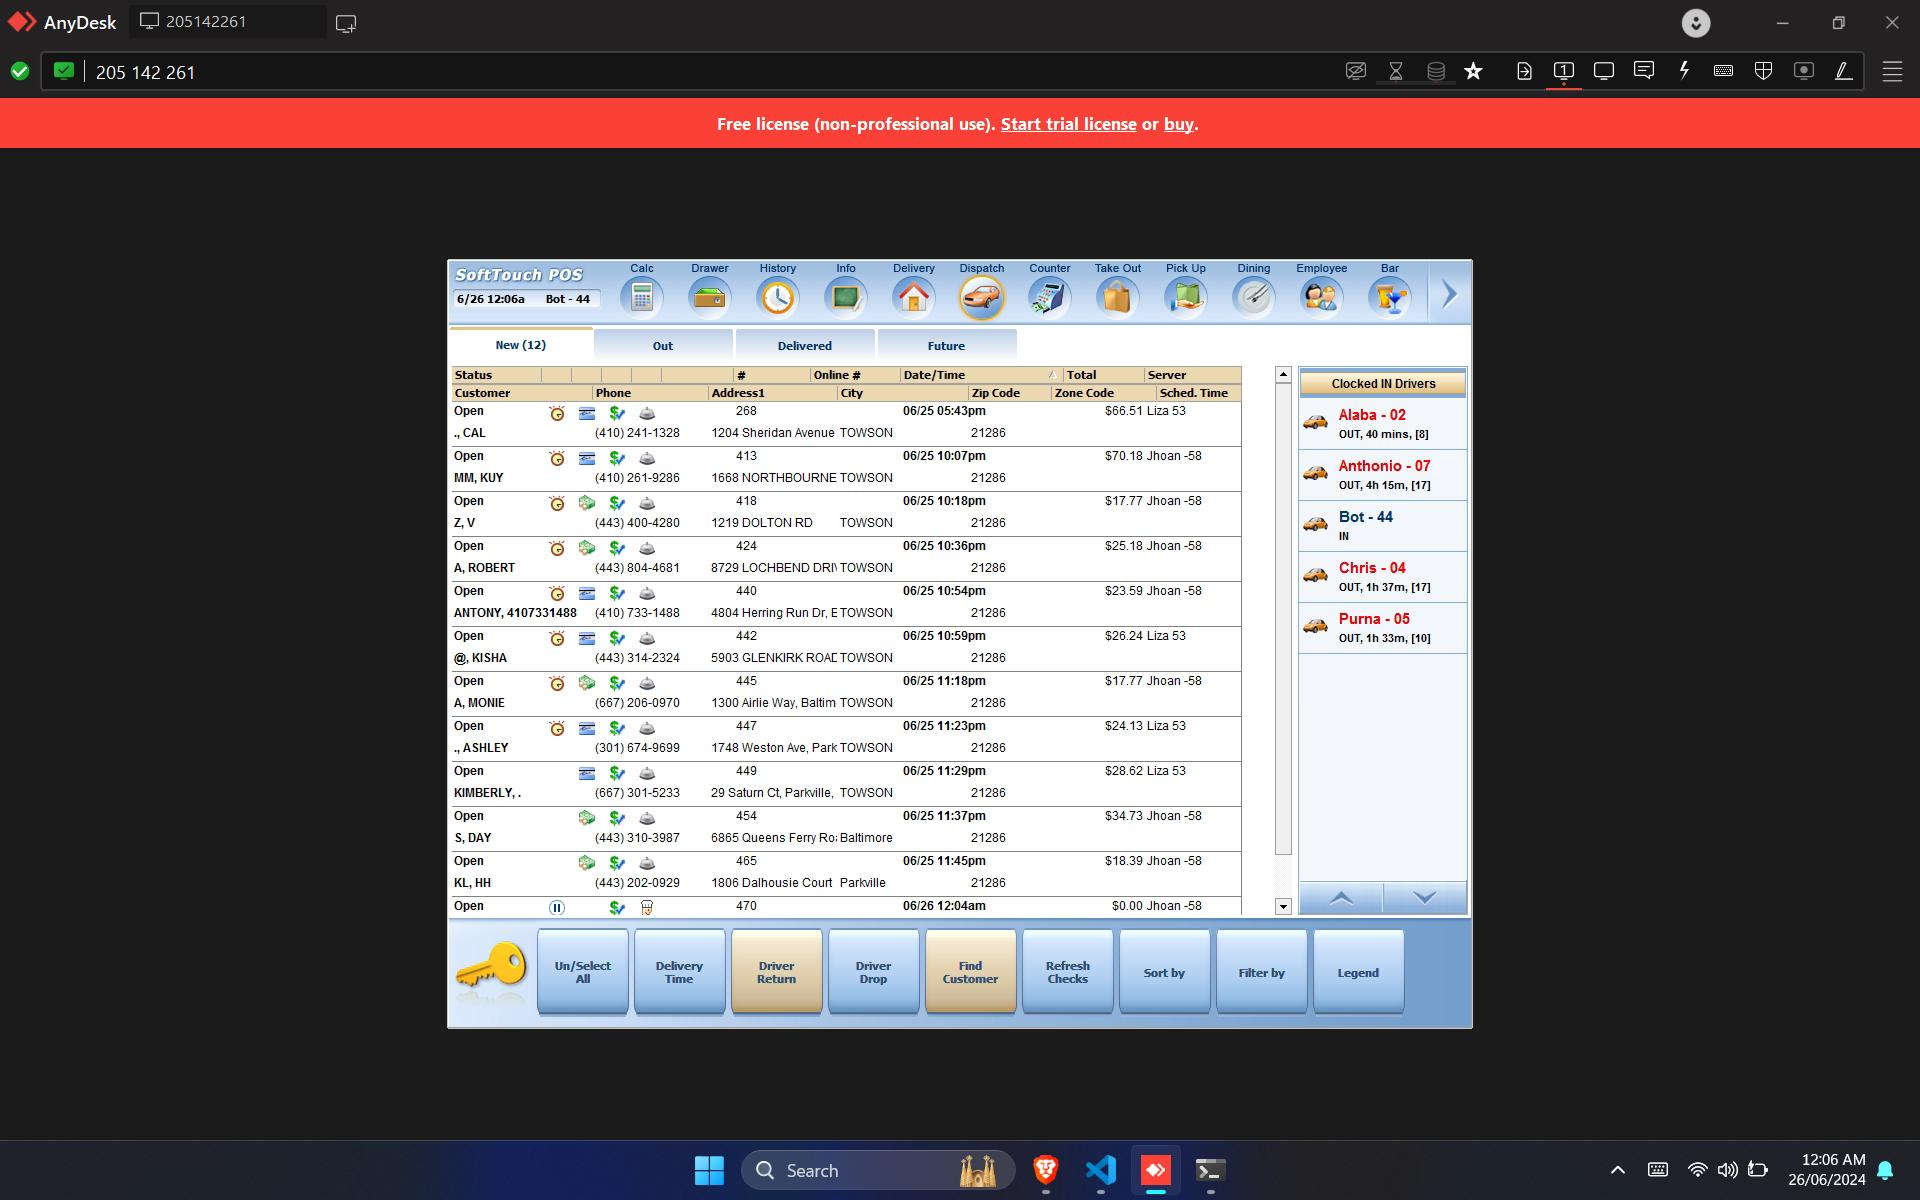
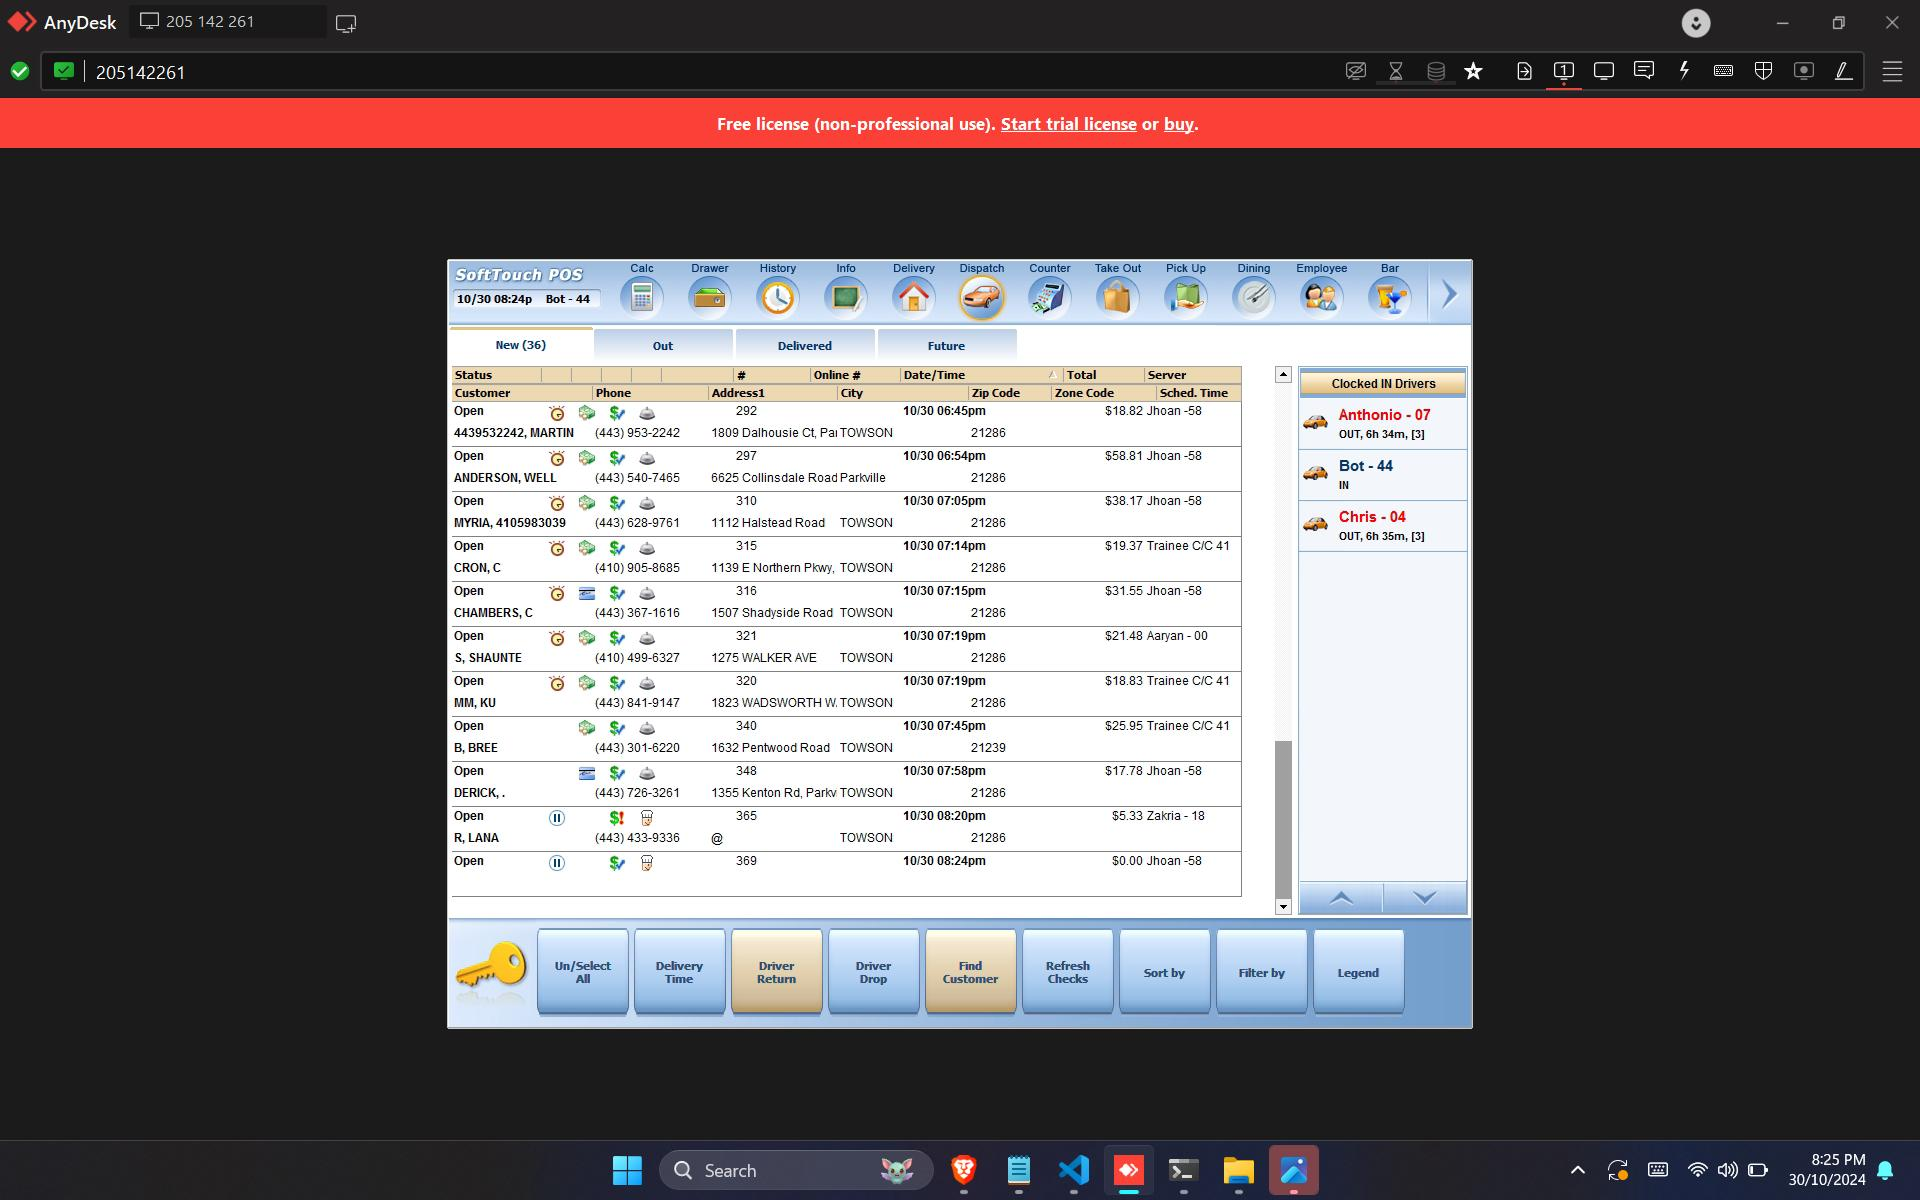
Working with sound

diff --git a/main.py b/main.py
@@ -3,40 +3,78 @@ from time import sleep
 import pyautogui
 from pyautogui import click
 from CORDS import *
+import numpy as np
+import winsound
+import keyboard
 
-sleep(5)
+while True:
+    sleep(5)
+    # Login
+    click(CORD_PASSKEY)
+    sleep(0.5)
+    click(CORD_PASSKEY)
+    sleep(0.5)
+    click(CORD_ENTER)
+    sleep(0.5)
+    click(CORD_DISPATCH)
+    sleep(1)
 
-# Login
-click(CORD_PASSKEY)
-sleep(0.5)
-click(CORD_PASSKEY)
-sleep(0.5)
-click(CORD_ENTER)
-sleep(0.5)
-click(CORD_DISPATCH)
-sleep(1)
-# Take a screenshot of all of the deliveries : One picture mode
-pyautogui.screenshot("all_delivs.jpg")
-# Step 1: Read the image
-image = cv2.imread("all_delivs.jpg")
+    pyautogui.moveTo(1282, 394)
+    pyautogui.dragTo(1282, 890, 1, button="left")
+    sleep(2)
+    # for i in range(4):
+    #     pyautogui.press("pagedown")
+    # Take a screenshot of all of the deliveries : One picture mode
+    pyautogui.screenshot("all_delivs.jpg")
+    # Step 1: Read the image
+    image = cv2.imread("all_delivs.jpg")
 
-# Step 2: Define the coordinates of the ROI
-# (top-left x, top-left y, width, height)
-# Step 3: Crop the ROI from the image
-addr_cords = []
-for i in range(5):
-    x = 710
-    y = 425
-    l = 125
-    b = 15
-    addr_cords.append([y, y + l, x, x + b])
+    # Step 2: Define the coordinates of the ROI
+    # (top-left x, top-left y, width, height)
+    # Step 3: Crop the ROI from the image
+    addr_cords = []
+    for i in range(5):
+        x = 710
+        y = 425
+        l = 125
+        b = 15
+        addr_cords.append([y, y + l, x, x + b])
 
-roi = image[425:440, 710:837]
+    roi = image[400:900, 605:628]
 
-# Step 4: Save or display the cropped image
+    # Step 4: Save or display the cropped image
 
-cv2.imwrite("original.jpg", roi)  # Display the cropped image
+    cv2.imwrite("original.jpg", roi)  # Display the cropped image
 
-# slice the picture between the cords
-# take all the names
-# Stringify them and save to list
+    # slice the picture between the cords
+    # take all the names
+    # Stringify them and save to list
+
+    # Load the main image and template image
+    template = cv2.imread("template_image.jpg")
+    main_image = cv2.imread("original.jpg")
+    # Convert both images to grayscale
+    main_gray = cv2.cvtColor(main_image, cv2.COLOR_BGR2GRAY)
+    template_gray = cv2.cvtColor(template, cv2.COLOR_BGR2GRAY)
+
+    # Get the width and height of the template image
+    w, h = template_gray.shape[::-1]
+
+    # Perform template matching
+    result = cv2.matchTemplate(main_gray, template_gray, cv2.TM_CCOEFF_NORMED)
+
+    # Set a threshold to determine if a match is found
+    threshold = 0.8
+    locations = np.where(result >= threshold)
+
+    # Print "found" if a match is found
+    if len(locations[0]) > 0:
+        print("Found")
+        while True:
+            winsound.Beep(1000, 1000)
+            sleep(0.5)  # Beep interval
+            if keyboard.is_pressed("space"):
+                break
+
+    sleep(60)
+    click(CORD_KEY)

diff --git a/beepy.py b/beepy.py
@@ -1,0 +1,15 @@
+import pyautogui
+import time
+
+import winsound
+def beep():
+    winsound.Beep(1000, 200)  # 1000 Hz frequency, 200 ms duration
+
+print("Press SPACE to stop beeping...")
+
+while True:
+    beep()
+    time.sleep(0.5)  # Beep interval
+    if ' ' in pyautogui.keyDown('space'):
+        print("Spacebar pressed, stopping beeps.")
+        break

diff --git a/CORDS.py b/CORDS.py
@@ -1,3 +1,4 @@
-CORD_PASSKEY = [840,644]
-CORD_ENTER = [928,756]
-CORD_DISPATCH = [979,291]
+CORD_PASSKEY = [840, 644]
+CORD_ENTER = [928, 756]
+CORD_DISPATCH = [979, 291]
+CORD_KEY = [487, 967]
